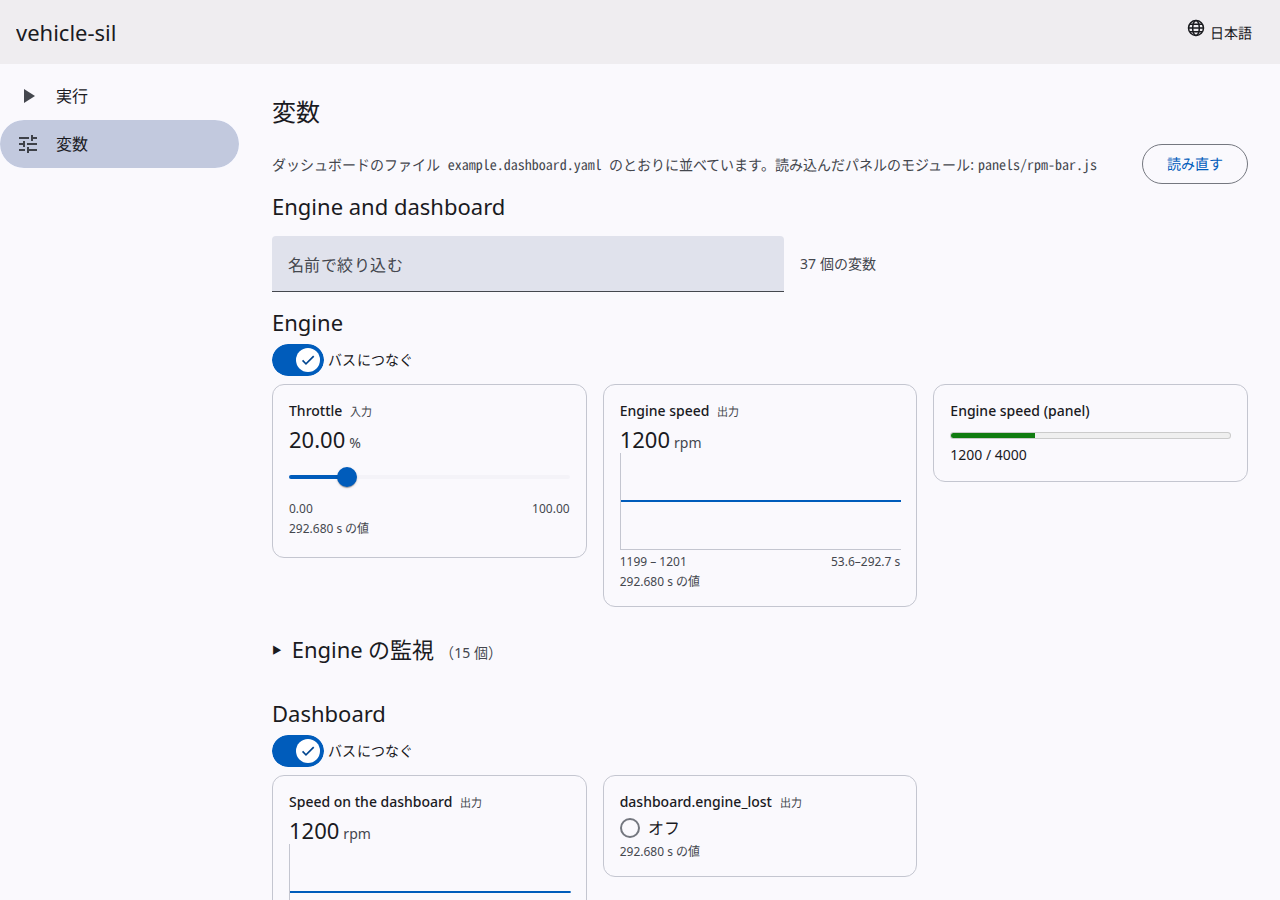
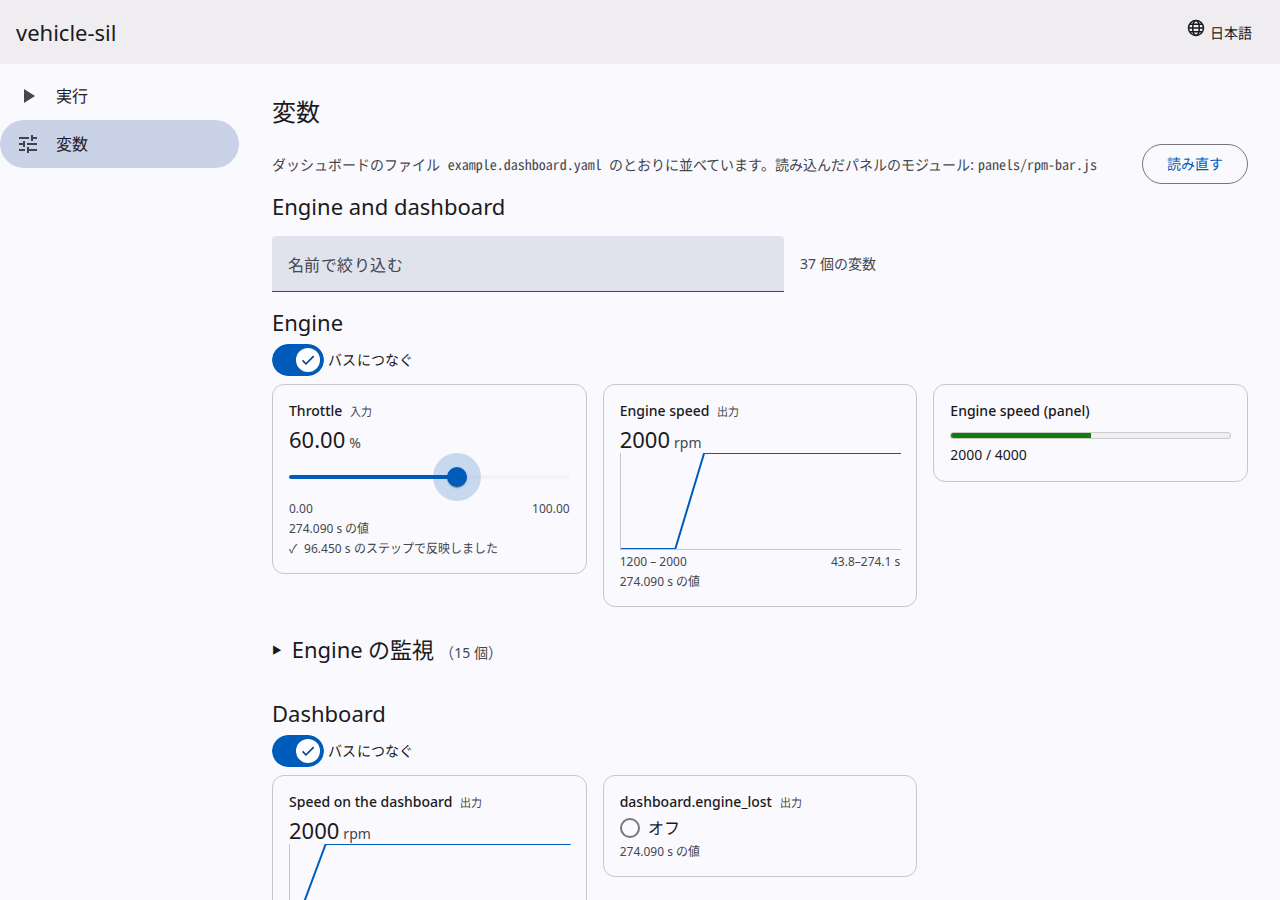
docs: put what is compared side by side into tables in the README
The first draft told everything in sentences and bullet lists, also
where the content is a set of parallel items: the commands, the two
ways to start, what is needed, what the lines of the example mean and
the known limits. Those are tables now; sentences stay where there is
an order or a reason to tell. The picture of the GUI shows a graph that
moves, and the output of the mistake example is the one with the
finding's code.

diff --git a/gui/web/e2e/real/dashboard.spec.ts b/gui/web/e2e/real/dashboard.spec.ts
@@ -67,6 +67,12 @@ test('the example dashboard file: its layout, and its panel shows the engine spe
     if (directory) {
       await page.setViewportSize({ width: 1280, height: 900 });
       await page.locator('mat-sidenav-content').evaluate((element) => element.scrollTo(0, 0));
+      // 写真には値の変化を写す: スロットルを 20 % から 60 % へ動かし（step 5 を 8 回）、回転数が上がりきるのを待つ
+      await throttle.getByRole('slider', { name: 'Throttle' }).focus();
+      for (let i = 0; i < 8; i += 1) await page.keyboard.press('ArrowRight');
+      await expect
+        .poll(() => numberOf(page, 'Engine', 'engine.speed'), { timeout: RUN_TIMEOUT })
+        .toBe(2000);
       await page.waitForTimeout(800);
       await page.screenshot({ path: `${directory}/dashboard-1280.png` });
     }
